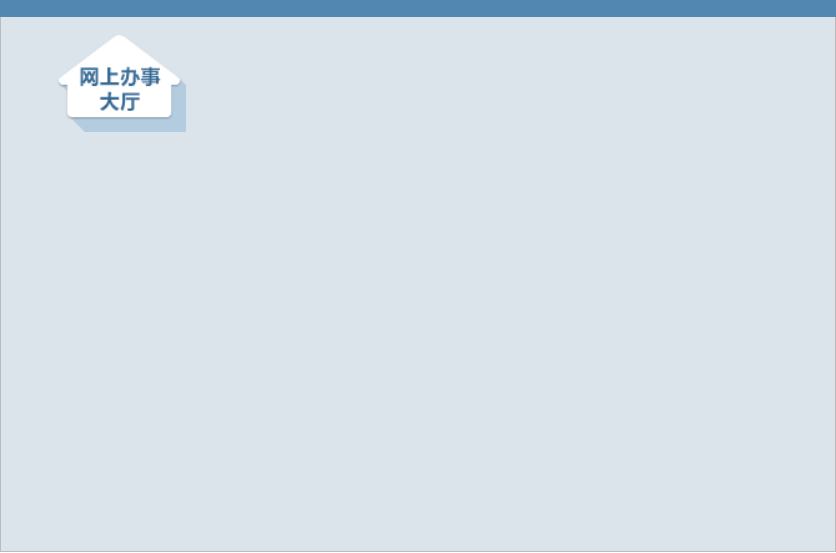
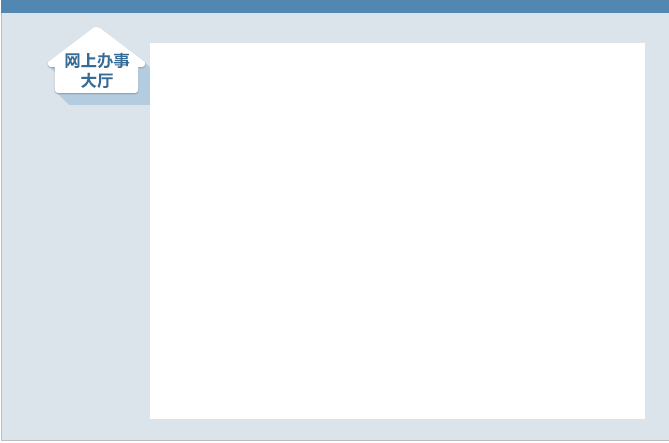
完成首页基本的页面

diff --git a/src/mock/db.js b/src/mock/db.js
@@ -4,30 +4,42 @@ module.exports = function() {
   var data = { 
       news: [],
       leaders: []
+      //letters: []
   };
   var images = [1,2,3].map(x=>Random.image('100x100', Random.color(), Random.word(1,10)));
   for (var i = 0; i < 100; i++) {
     var content = Random.cparagraph(0,10);
     data.news.push({
-         id: i, 
-         type: Random.integer(0,4),
-         title: Random.cword(8,20),
-         desc: content.substr(0,40),
-         tag: Random.cword(2,6),
-         views: Random.integer(100,5000),
-         images: images.slice(0,Random.integer(1,3))
+        id: i, 
+        type: Random.integer(0,4),
+        title: Random.cword(8,20),
+        desc: content.substr(0,40),
+        tag: Random.cword(2,6),
+        views: Random.integer(100,5000),
+        images: images.slice(0,Random.integer(1,3))
     })
     if(i<=10){
       data.leaders.push({ // 根据数据模板生成模拟数据
         id: i, // 随机生成一个id
-        name: Mock.Random.cname(), // 随机生成一个常见的中文姓名。
-        addr: Mock.mock('@county(true)'), // @county(true)为数据模板
+        name: Random.cname(), // 随机生成一个常见的中文姓名。
+        addr: mock('@county(true)'), // @county(true)为数据模板
         'age|18-60': 1, // 'age|18-60': 1 为数据模板
-        birth: Mock.Random.date(), // 随机生成日期
-        sex: Mock.Random.integer(0, 1), // 随机生成整数, min:0, max1,
+        birth: Random.date(), // 随机生成日期
+        sex: Random.integer(0, 1), // 随机生成整数, min:0, max1,
         images: images.slice(0,Random.integer(1,3))
       })
     }
+    // if(i<=10){
+    //   data.letters.push({ // 根据数据模板生成模拟数据
+    //     id: i, // 随机生成一个id
+    //     name: Random.cname(), // 随机生成一个常见的中文姓名。
+    //     addr: mock('@county(true)'), // @county(true)为数据模板
+    //     'age|18-60': 1, // 'age|18-60': 1 为数据模板
+    //     birth: Random.date(), // 随机生成日期
+    //     sex: Random.integer(0, 1), // 随机生成整数, min:0, max1,
+    //     images: images.slice(0,Random.integer(1,3))
+    //   })
+    // }
   }
   return data
 }

diff --git a/src/pages/index/interact/interact.vue b/src/pages/index/interact/interact.vue
@@ -74,26 +74,63 @@ export default {
   width 100%
   height 100%
   .inter-btn
-    width 20%
+    width 25%
     height 100%
     display inline-block
     text-align center
     img
-      width 100px
-      height 100px
+      width 90px
+      height 90px
   .inter-tab
     display inline-block
-    width 75%
+    width 70%
     height 100%
     background-image url('./back-tabs.png')
     background-size 100% auto
     background-repeat no-repeat
     top 5%
     .tab-btn
-      width 80%
       margin 20% 7%
-      .tabBarStyle
-        background-color red
       .tab-content
-        background-color red
+        background-color white
+        width 100%
+        height 100%
+        ul
+          padding 0
+          width 100%
+          list-style none
+          display flex
+          justify-content flex-start
+          flex-wrap wrap
+          li
+            width 30%
+            padding 1% 0
+            margin 3% 1%
+            line-height 40px
+            font-size 17px
+            text-align center
+            background-color #6699CC
+            a
+              color white
+  .ant-tabs .ant-tabs-left-bar {
+    float: left;
+    width: 18%;
+    border-right: 0.013333rem solid #e8e8e8;
+    margin-right: -0.013333rem;
+    margin-bottom: 0;
+  }
+  .ant-tabs-vertical.ant-tabs-card.ant-tabs-left .ant-tabs-card-bar.ant-tabs-left-bar .ant-tabs-tab {
+    border-right: 0;
+    border-radius: 0.053333rem 0 0 0.053333rem;
+    margin-right: 0.013333rem;
+    width:100%;
+    height:100%;
+    text-align:center;
+    background-color: #6699CC;
+    color:white;
+  }
+  .ant-tabs-vertical.ant-tabs-card.ant-tabs-left .ant-tabs-card-bar.ant-tabs-left-bar .ant-tabs-tab-active {
+    background-color: white;
+    color:black;
+  }
 </style>

diff --git a/src/pages/index/feedback/feedback.vue b/src/pages/index/feedback/feedback.vue
@@ -1,0 +1,68 @@
+<template>
+  <div class="feedback-body">
+    <div class="coll-advise">
+      <select class="ad-select" size="20" multiple>
+        <option v-for="cont in tabmain" :key="cont.id" >·{{cont.title}}</option>
+      </select>
+    </div>
+    <div class="coll-pic">
+      <img src="./feed-btn.png">
+    </div>
+  </div>
+</template>
+
+<script>
+export default {
+  data () {
+    return {
+      tabmain: []
+    }
+  },
+  mounted: function () {
+    this.getNews()
+  },
+  methods: {
+    getNews () {
+      this.$ajax.get('http://localhost:3003/news').then((res) => {
+        this.tabmain = res.data
+      })
+    }
+  }
+}
+</script>
+
+<style lang="stylus">
+.feedback-body
+  width 100%
+  height 100%
+  display flex
+  justify-content center
+  .coll-advise
+    background-image url('../public.png')
+    background-size 100% 400px
+    background-repeat no-repeat
+    width 65%
+    height 100%
+    padding-top 120px
+    border gray thin solid
+    .ad-select
+      height 100%
+      width 100%
+      font-family '仿宋'
+      font-weight 400
+      font-style normal
+      font-size 22px
+      text-decoration none
+      color #000000
+      option
+        font-weight normal
+        display block
+        white-space pre
+        min-height 1.2em
+        padding 0px 2px 1px
+  .coll-pic
+    width 20%
+    display table-cell
+    padding-top 5%
+    text-align center
+</style>

diff --git a/src/pages/index/index.vue b/src/pages/index/index.vue
@@ -45,7 +45,9 @@
         <div class="main-head">
           <span>>>>&nbsp;联系反馈</span>
         </div>
-        <div class="main-body"></div>
+        <div class="main-body">
+          <v-feedback />
+        </div>
       </div>
     </div>
   </div>
@@ -57,13 +59,15 @@ import tab from './tab/tab.vue'
 import leader from './leader/leader.vue'
 import report from './report/report.vue'
 import interact from './interact/interact.vue'
+import feedback from './feedback/feedback.vue'
 export default {
   components: {
     'v-slide': slide,
     'v-tab': tab,
     'v-leader': leader,
     'v-report': report,
-    'v-interact': interact
+    'v-interact': interact,
+    'v-feedback': feedback
   }
 }
 </script>
@@ -74,7 +78,7 @@ export default {
   height auto
   width 100%
   .all-container
-    width 85%
+    width 80%
     height auto
     margin 0 auto
     margin-top -20px
@@ -90,7 +94,7 @@ export default {
   .main-head
     height 74px
     line-height 74px
-    width 100%
+    width 98%
     margin 0 0
     background-image url(main-head.png)
     background-repeat no-repeat
